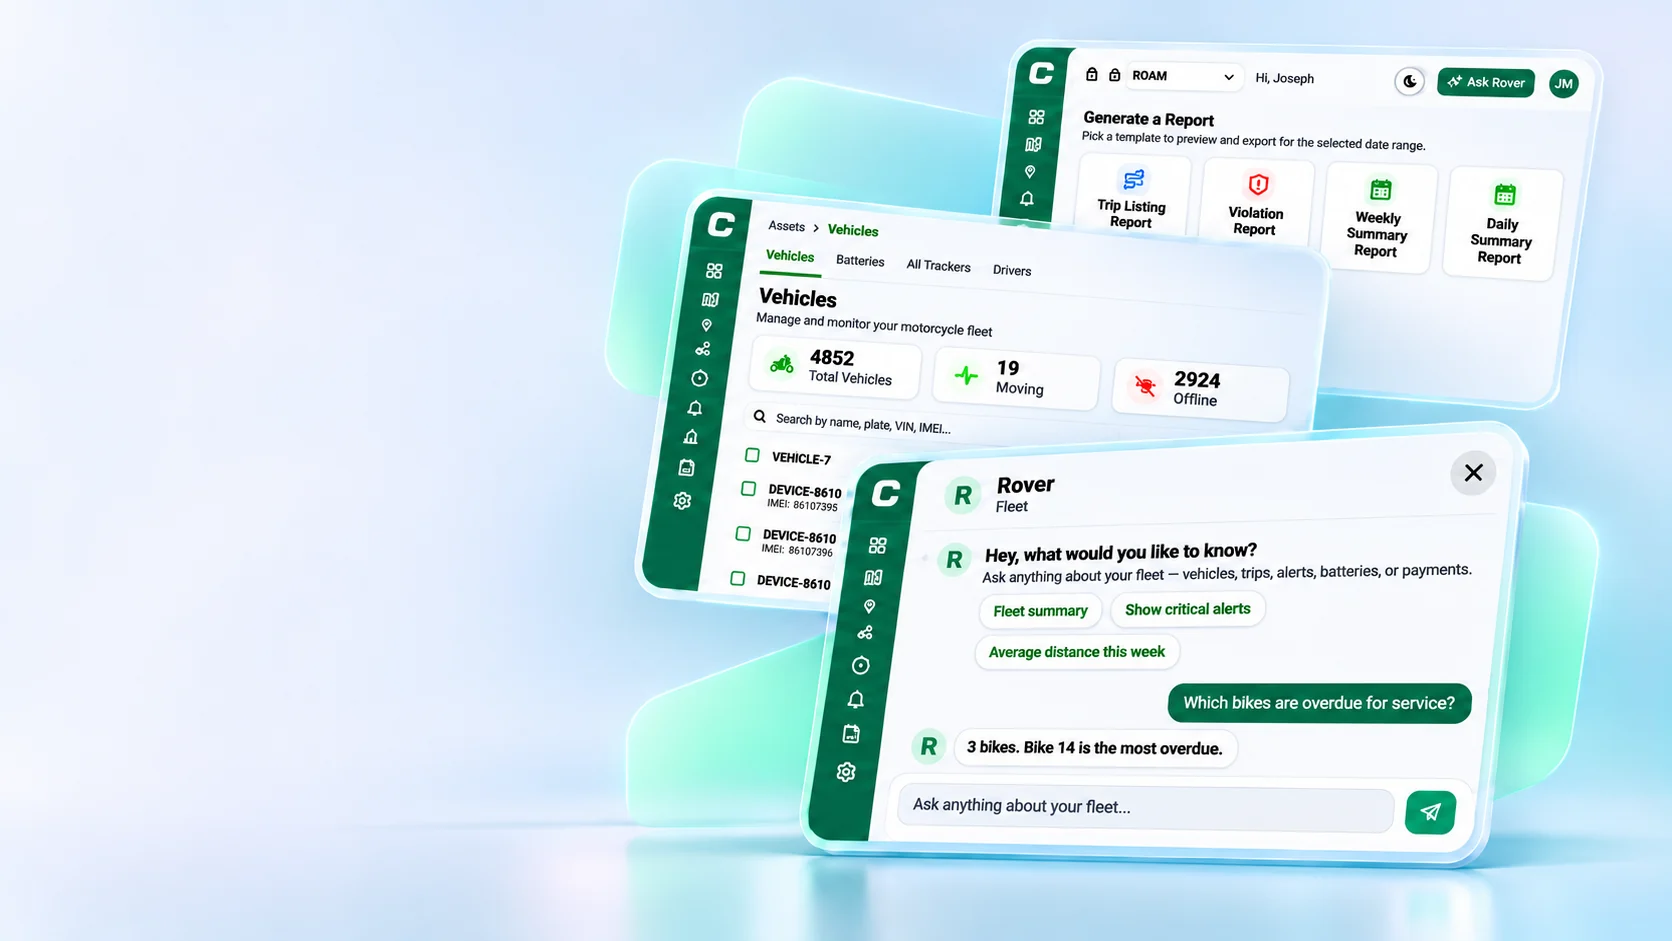
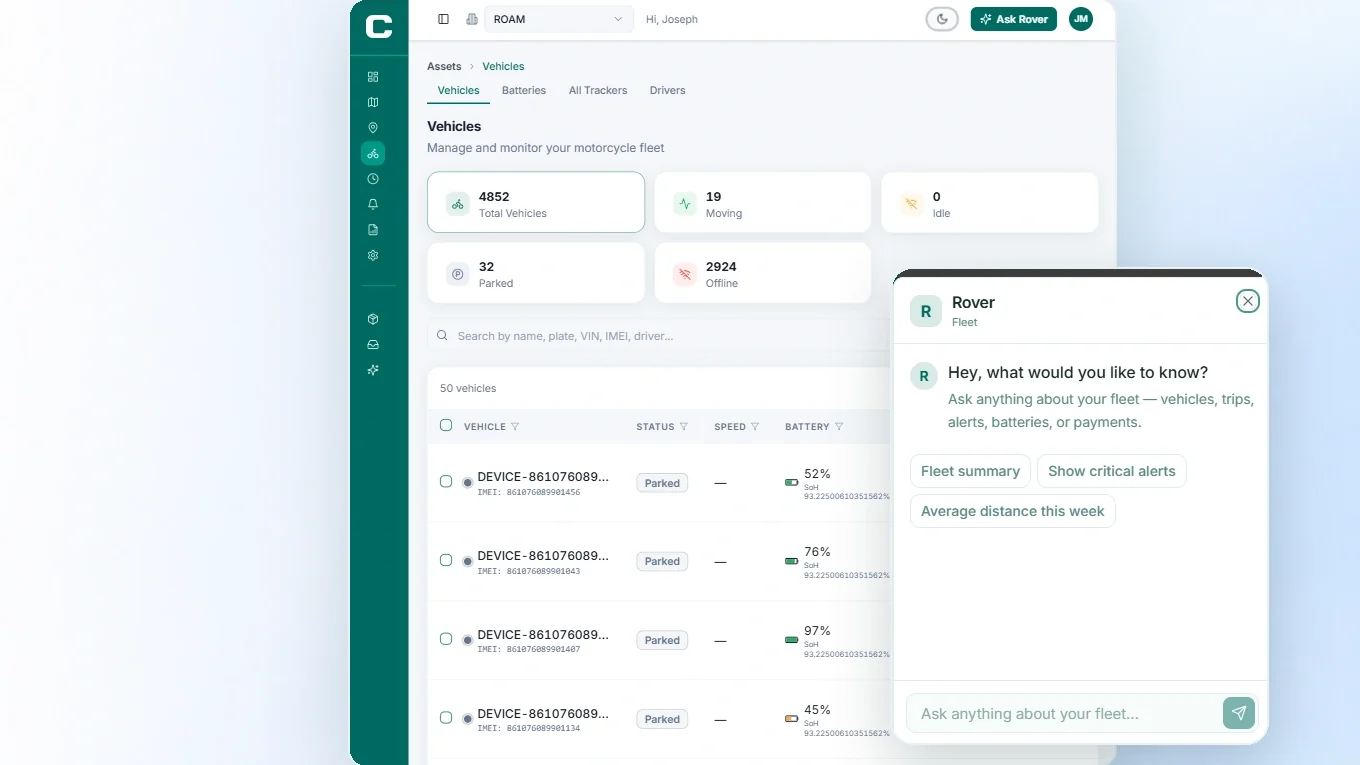
01 The problem: vehicles screen with Rover open beside it
New art, extended left so the headline keeps a clear column (2.1:1, box
matched so nothing is cropped). Phones and tablets get a crop pulled in on
the screens. Band and copy panel lightened to the art's near-white blue.
Copy unchanged.

Claude-Session: https://claude.ai/code/session_019hg5JKm3Ajc1VUuZ1vD315

diff --git a/index.html b/index.html
@@ -262,13 +262,13 @@ p,h1,h2,h3,ul{margin:0}
 @media (max-width:519px){.logo-grid{grid-template-columns:repeat(3,minmax(0,1fr))}}
 .band{min-height:clamp(440px,62vw,820px)}
 /* why it matters: text set in the open sky, top-left */
-#why.band.light{background:#E6EFF9}
+#why.band.light{background:#EEF4FC}
 #why.band.light .h-sec{max-width:13.5em}
 #why.band > .wrap{gap:var(--eg)}
 @media (min-width:1024px){
   /* text sits on the clear wall, its top level with the laptop screen, ending well above the desk line */
-  #why.band{align-items:flex-start;min-height:0;aspect-ratio:1976/941}
-  #why.band > .wrap{gap:0;padding-block:calc(100vw * 941 / 1976 * .2) 0}
+  #why.band{align-items:flex-start;min-height:0;aspect-ratio:2268/1080}
+  #why.band > .wrap{gap:0;padding-block:calc(100vw * 1080 / 2268 * .2) 0}
   #why.band.light .photo{object-position:0% 50%}
   #why.band.light::after{background:linear-gradient(90deg,rgba(246,249,254,.5) 0%,rgba(246,249,254,.22) 22%,rgba(246,249,254,0) 36%)}
   #why.band.light .label{letter-spacing:.18em}
@@ -280,13 +280,13 @@ p,h1,h2,h3,ul{margin:0}
 @media (min-width:768px) and (max-width:1023px){
   #why.band.light{min-height:calc(100vw * 9 / 16 + 320px)}
   #why.band.light .photo{height:calc(100vw * 9 / 16);object-position:50% 50%}
-  #why.band.light::after{background:linear-gradient(0deg,#E6EFF9 0%,#E6EFF9 320px,rgba(230,239,249,0) 470px)}
+  #why.band.light::after{background:linear-gradient(0deg,#EEF4FC 0%,#EEF4FC 320px,rgba(238,244,252,0) 470px)}
   #why.band.light .lede{max-width:34em}
 }
 @media (max-width:767px){
   #why.band.light{min-height:calc(100vw * 9 / 16 + 300px)}
   #why.band.light .photo{height:calc(100vw * 9 / 16);object-position:50% 50%}
-  #why.band.light::after{background:linear-gradient(0deg,#E6EFF9 0%,#E6EFF9 300px,rgba(230,239,249,0) 410px)}
+  #why.band.light::after{background:linear-gradient(0deg,#EEF4FC 0%,#EEF4FC 300px,rgba(238,244,252,0) 410px)}
   #why.band.light .h-sec{font-size:min(1.7rem,calc((100vw - 32px) / 12.8))}
 }
 /* no dark seam under Features: the sky fades up into the white section above */
@@ -1220,7 +1220,7 @@ p,h1,h2,h3,ul{margin:0}
 
   <section id="why" class="bleed band light has-media" data-sec="Why it matters" data-sid="why" data-slot="why" data-slot-l="Section background" data-default-media="images/why-it-matters.webp" aria-labelledby="why-title">
     <canvas data-seed="2207" aria-hidden="true"></canvas>
-    <picture class="default-pic"><source media="(max-width:1023px)" srcset="images/why-mobile.webp?v=13 1100w, images/why-mobile-1700.webp?v=13 1672w" sizes="100vw"><img class="photo" src="images/why-it-matters.webp?v=12" srcset="images/why-it-matters-1280.webp?v=12 1280w, images/why-it-matters.webp?v=12 1976w" sizes="100vw" alt="Three Canopy screens on glass panels against a pale blue field: the reports page, the vehicle list and the Rover AI assistant" width="1976" height="941" loading="lazy" decoding="async"></picture>
+    <picture class="default-pic"><source media="(max-width:1023px)" srcset="images/why-mobile.webp?v=14 1100w, images/why-mobile-1700.webp?v=14 1360w" sizes="100vw"><img class="photo" src="images/why-it-matters.webp?v=13" srcset="images/why-it-matters-1280.webp?v=13 1280w, images/why-it-matters.webp?v=13 2268w" sizes="100vw" alt="The Canopy vehicles screen, with fleet totals and a vehicle list, and the Rover AI assistant open beside it" width="2268" height="1080" loading="lazy" decoding="async"></picture>
     <div class="wrap">
       <p class="label" data-k="why.label" data-l="Small label">01 The problem</p>
       <h2 id="why-title" class="h-sec" data-k="why.title" data-l="Headline">Limited asset control. Higher risk.</h2>
